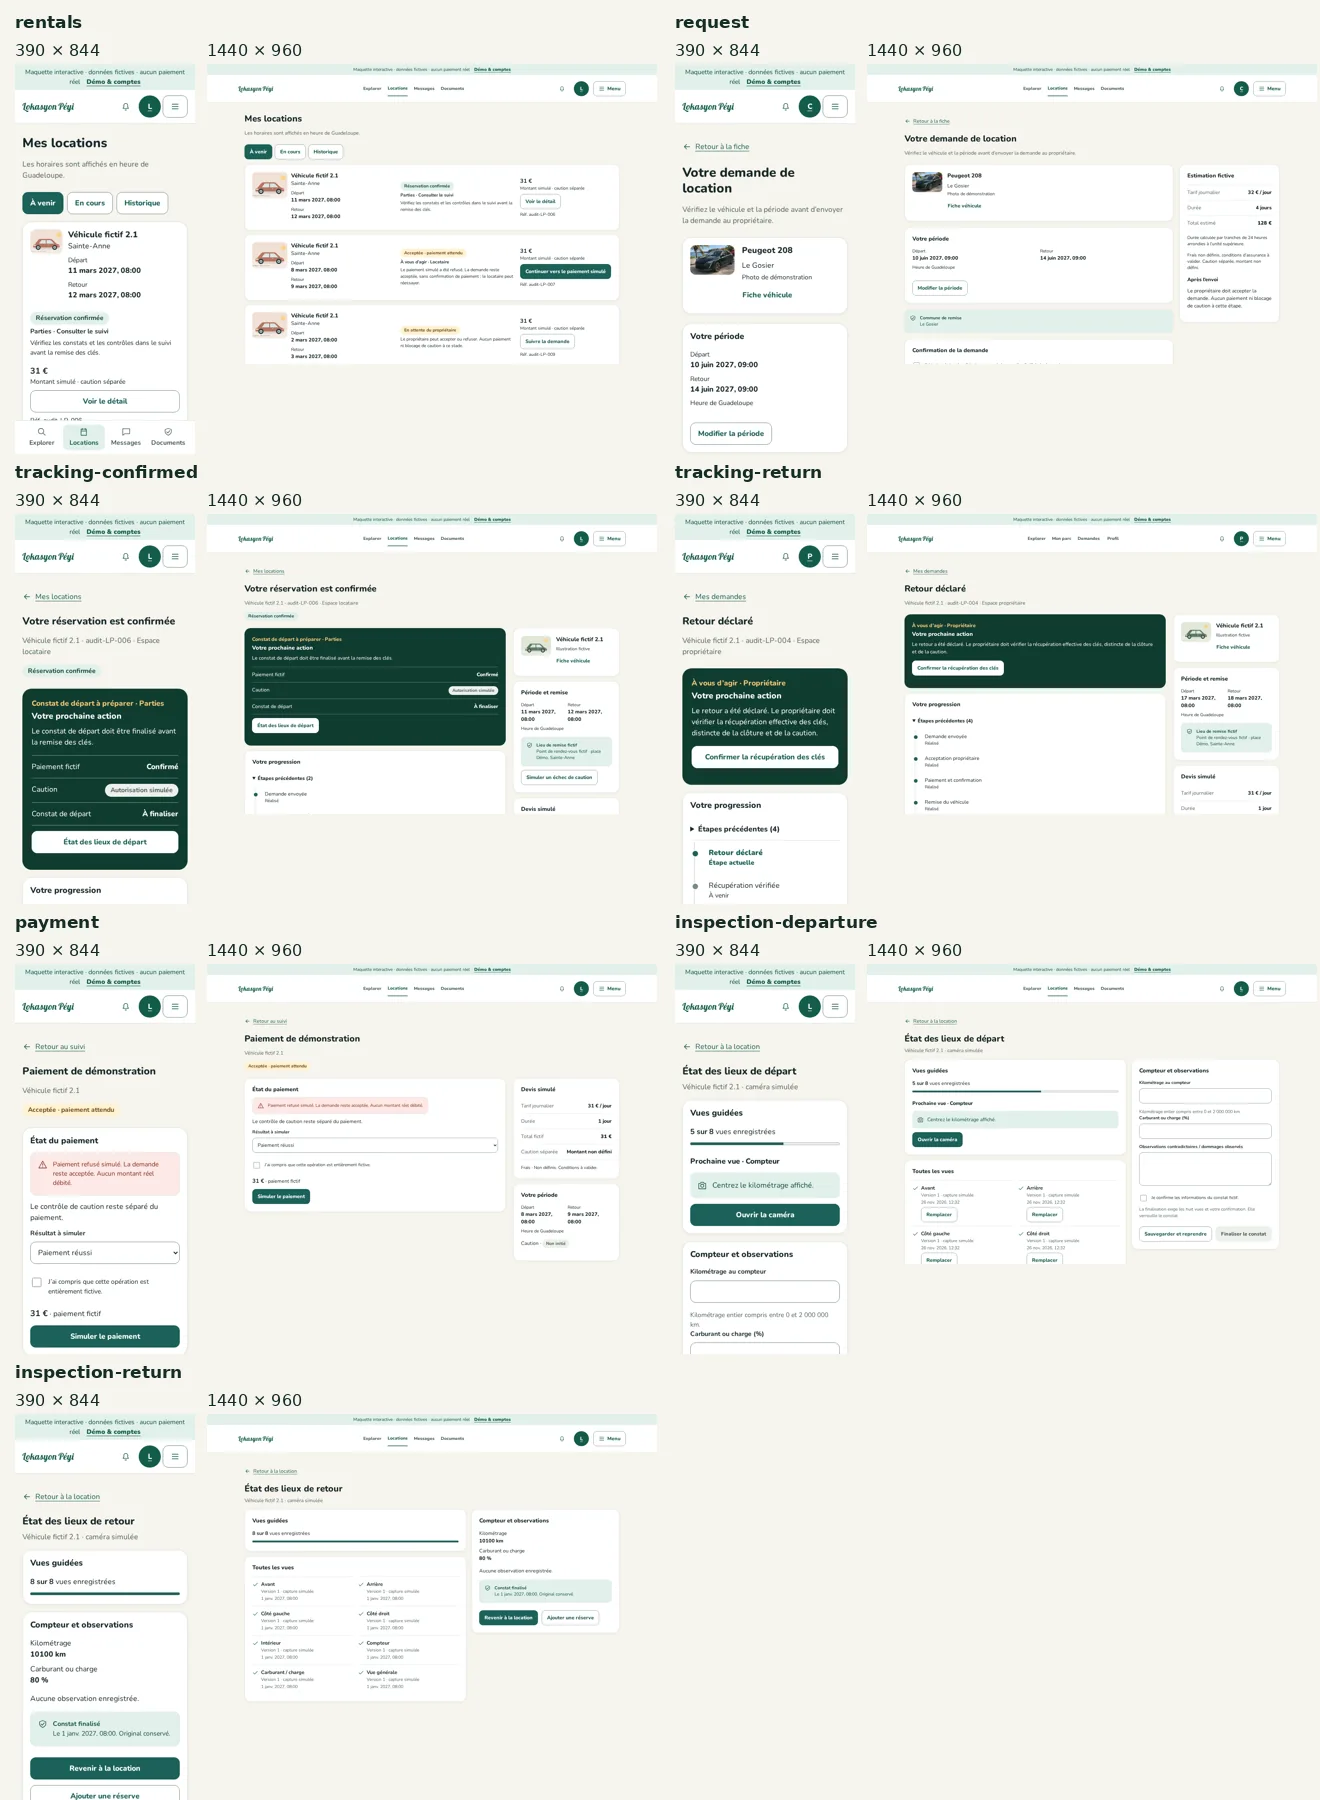
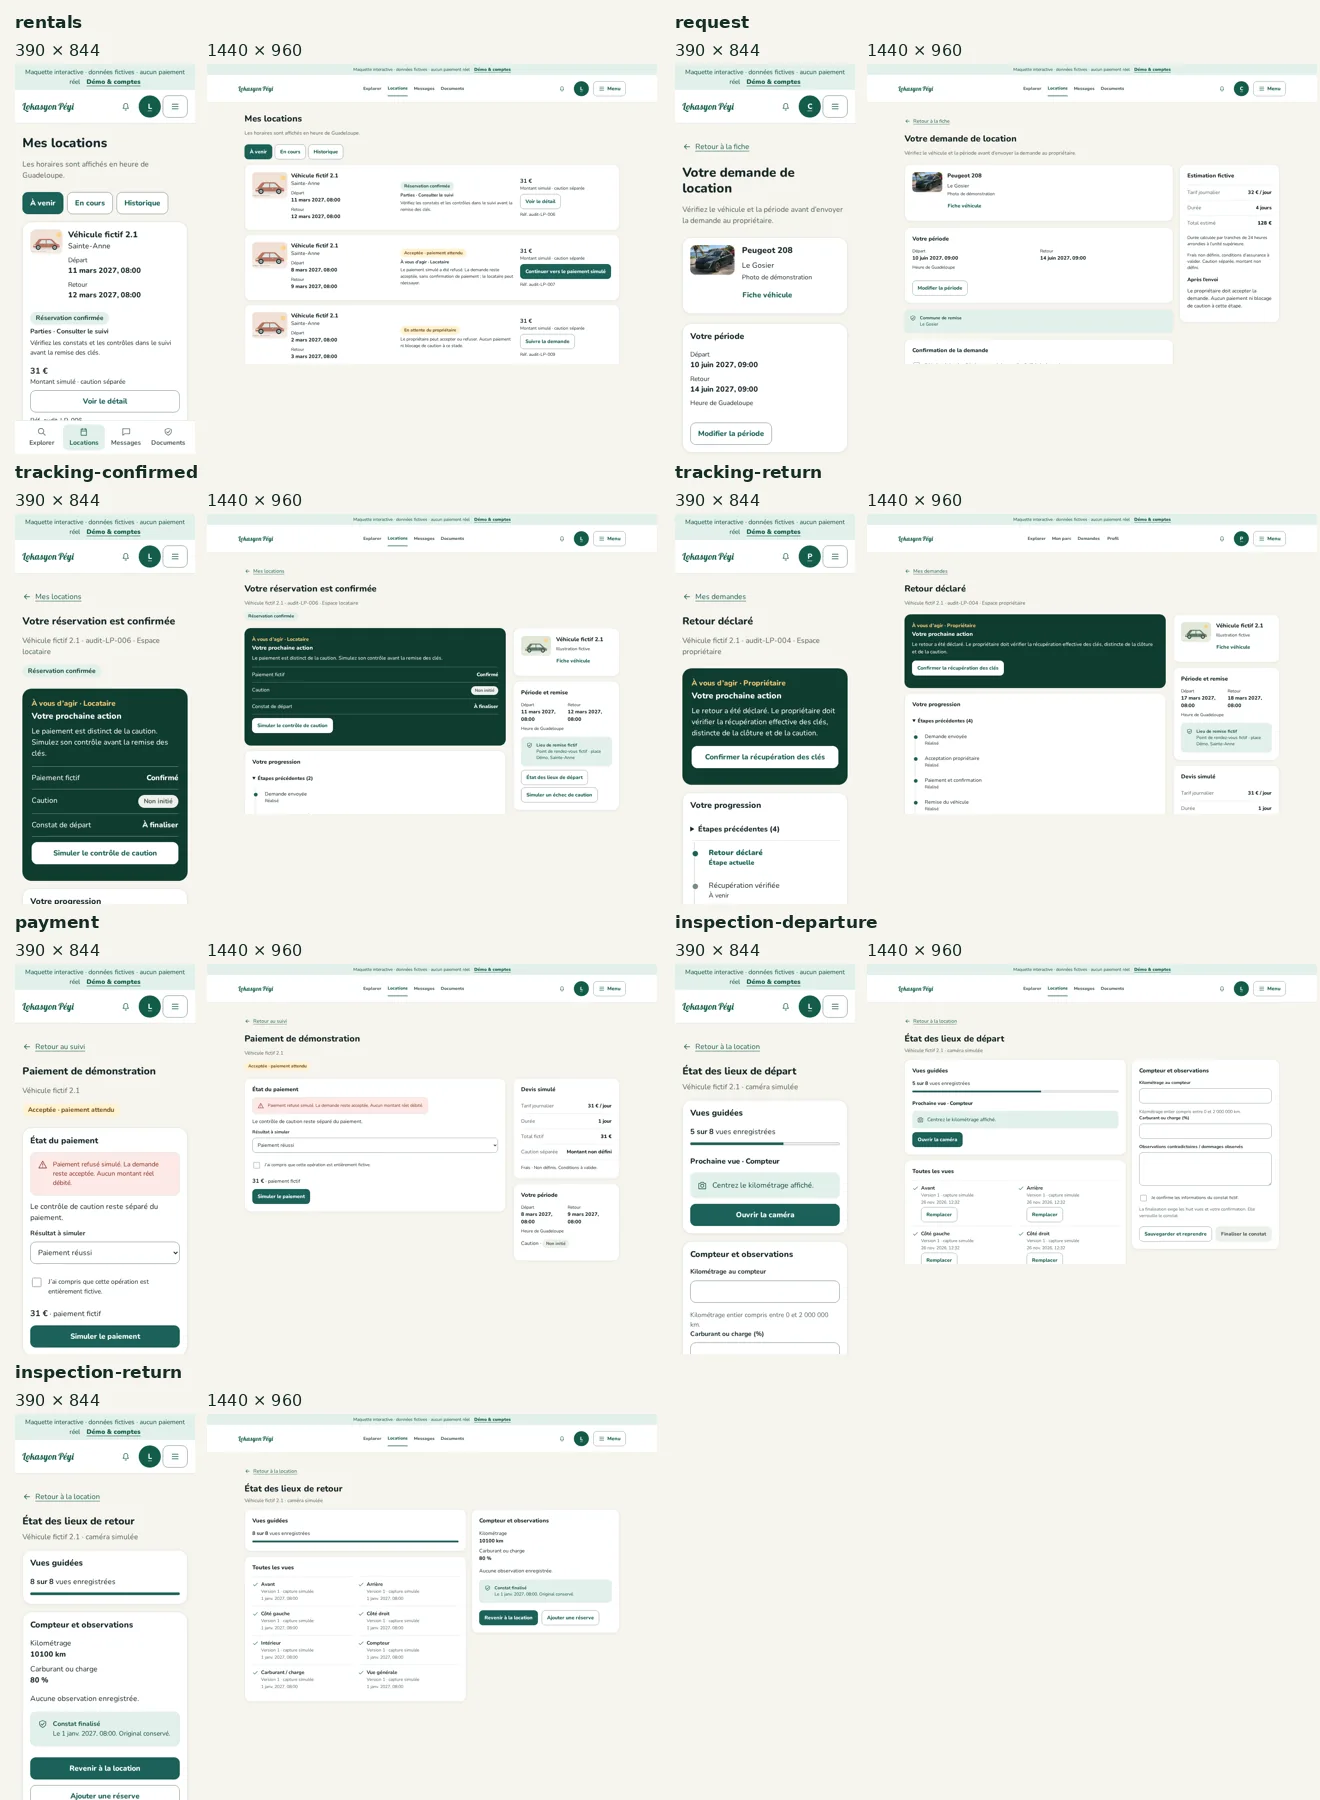
docs(handoff): aligner la preuve de suivi sur l’état avant caution

Changed region(s): [[0.0, 0.4044, 0.1553, 0.4978], [0.4038, 0.4356, 0.4348, 0.4667]]

diff --git a/LOKASYON_PEYI_DESIGN_HANDOFF/01_AUDIT/ECARTS_CORRECTION_V32.md b/LOKASYON_PEYI_DESIGN_HANDOFF/01_AUDIT/ECARTS_CORRECTION_V32.md
@@ -13,7 +13,7 @@
 
 - Chromium 141.0.7390.37 et Playwright 1.56.1 sous Linux, Node 24, `fr-FR`, `America/Guadeloupe`, DPR 1, mouvement réduit et horloge navigateur `2026-11-21T16:00:00Z`. Instance `npm run audit:start` réinitialisée, comptes du mock uniquement, zéro erreur JavaScript sur les **80 captures** (40 scènes × 2 tailles). Les montages conservent des extraits redimensionnés. Les mesures ci-dessous sont en pixels CSS au viewport original, avec `x,y,largeur,hauteur`. Au calendrier, on s’est placé sur l’ancre; ailleurs, les mesures de premier écran sont au scroll initial.
 - Pour comparer aux planches, lire l’état et la zone indiqués avec chaque ID. Pour B-16, la fixture affiche le même modèle fictif dans trois états et des dates/montants différents. Pour B-24, le fil court affiche trois échanges alternés sur v1 avec texte et horodatages différents; la conversation du véhicule reste identifiable. B-33 illustre Noa, une Peugeot et cinq véhicules. Le scénario d’audit est `audit-o02`, une demande, un véhicule et un brouillon étape 5. Comparer hiérarchie, rang, densité et disponibilité des actions, en ignorant les différences de valeur des données d’illustration.
-- Demande v1 les 10–14 juin 2027, 09 h Guadeloupe, avec brouillon de location de ce véhicule. Départ du constat à 5/8 (`audit-LP-006`, caution validée) et retour finalisé à 8/8 (`audit-LP-004`) chacun à deux largeurs. Le montage Assistance couvre le dossier nominal, l’avis du `audit-LP-003` clôturé pendant la préparation et le reçu du `audit-LP-002`. Le dossier de départ est reçu sans échange, tandis que B-28 inclut des échanges. Le récapitulatif de publication photographié à l’étape 9 part d’un brouillon incomplet. R06/R08 préparent les états complets avant leur comparaison. Les essais de refus de caméra, clavier virtuel, lecteur d’écran, appareil physique et impression physique restent à mener pendant les lots concernés.
+- Demande v1 les 10–14 juin 2027, 09 h Guadeloupe, avec brouillon de location de ce véhicule. Le suivi confirmé de B-18 a été photographié avant la caution sur une instance fraîche. Le suivi de retour déclaré est montré côté propriétaire. Départ du constat à 5/8 (`audit-LP-006`, caution validée) et retour finalisé à 8/8 (`audit-LP-004`) chacun à deux largeurs. Le montage Assistance couvre le dossier nominal, l’avis du `audit-LP-003` clôturé pendant la préparation et le reçu du `audit-LP-002`. Le dossier de départ est reçu sans échange, tandis que B-28 inclut des échanges. Le récapitulatif de publication photographié à l’étape 9 part d’un brouillon incomplet. R06/R08 préparent les états complets avant leur comparaison. Les essais de refus de caméra, clavier virtuel, lecteur d’écran, appareil physique et impression physique restent à mener pendant les lots concernés.
 - [Mesures des 80 vues](../04_VISUAL_REFERENCES/extension/audit-8a6974e/MESURES.csv) · [Header](../04_VISUAL_REFERENCES/extension/audit-8a6974e/header.webp) · [Locations, suivi et constats](../04_VISUAL_REFERENCES/extension/audit-8a6974e/locations.webp) · [Messagerie](../04_VISUAL_REFERENCES/extension/audit-8a6974e/messagerie.webp) · [Assistance et clôture](../04_VISUAL_REFERENCES/extension/audit-8a6974e/assistance.webp) · [Propriétaire](../04_VISUAL_REFERENCES/extension/audit-8a6974e/proprietaire.webp) · [Compte et publication](../04_VISUAL_REFERENCES/extension/audit-8a6974e/publication.webp).
 
 ## Écarts mesurés à 390 × 844
